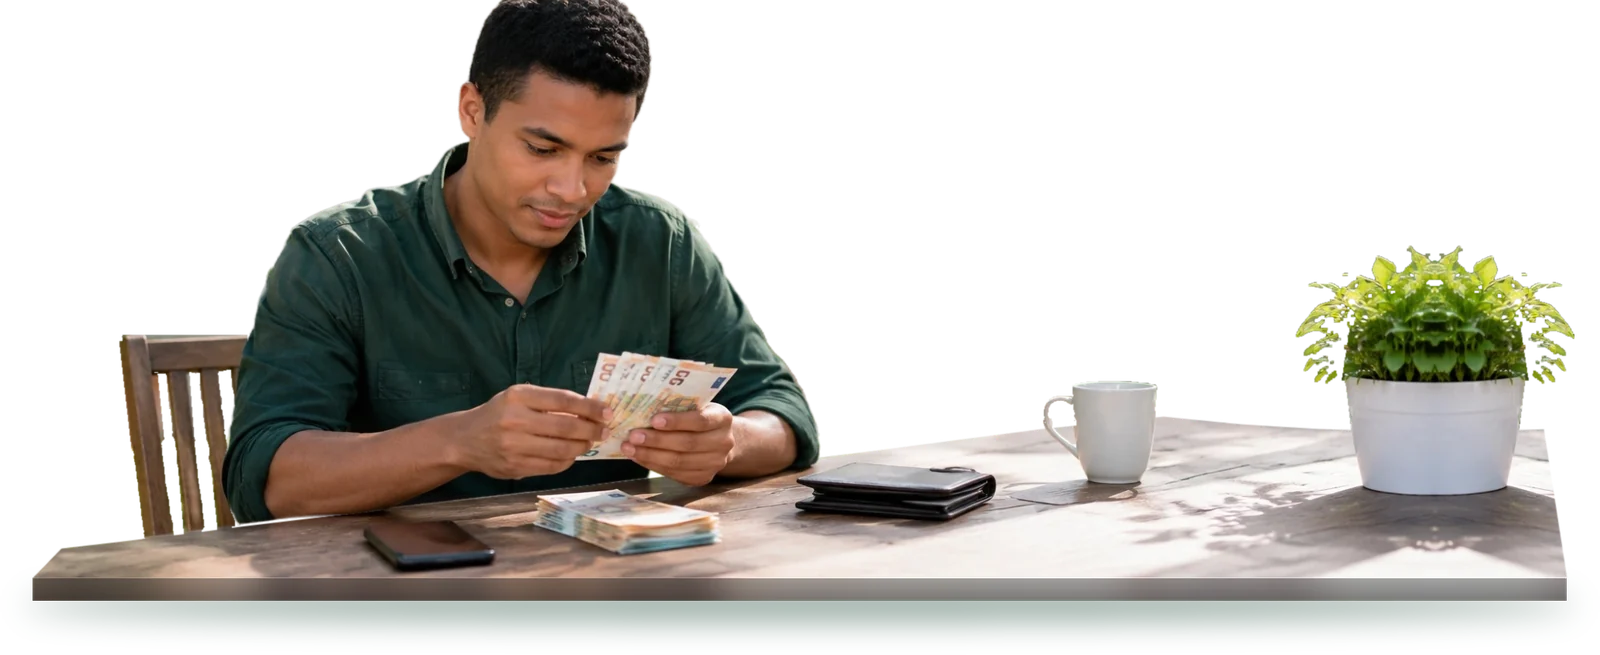
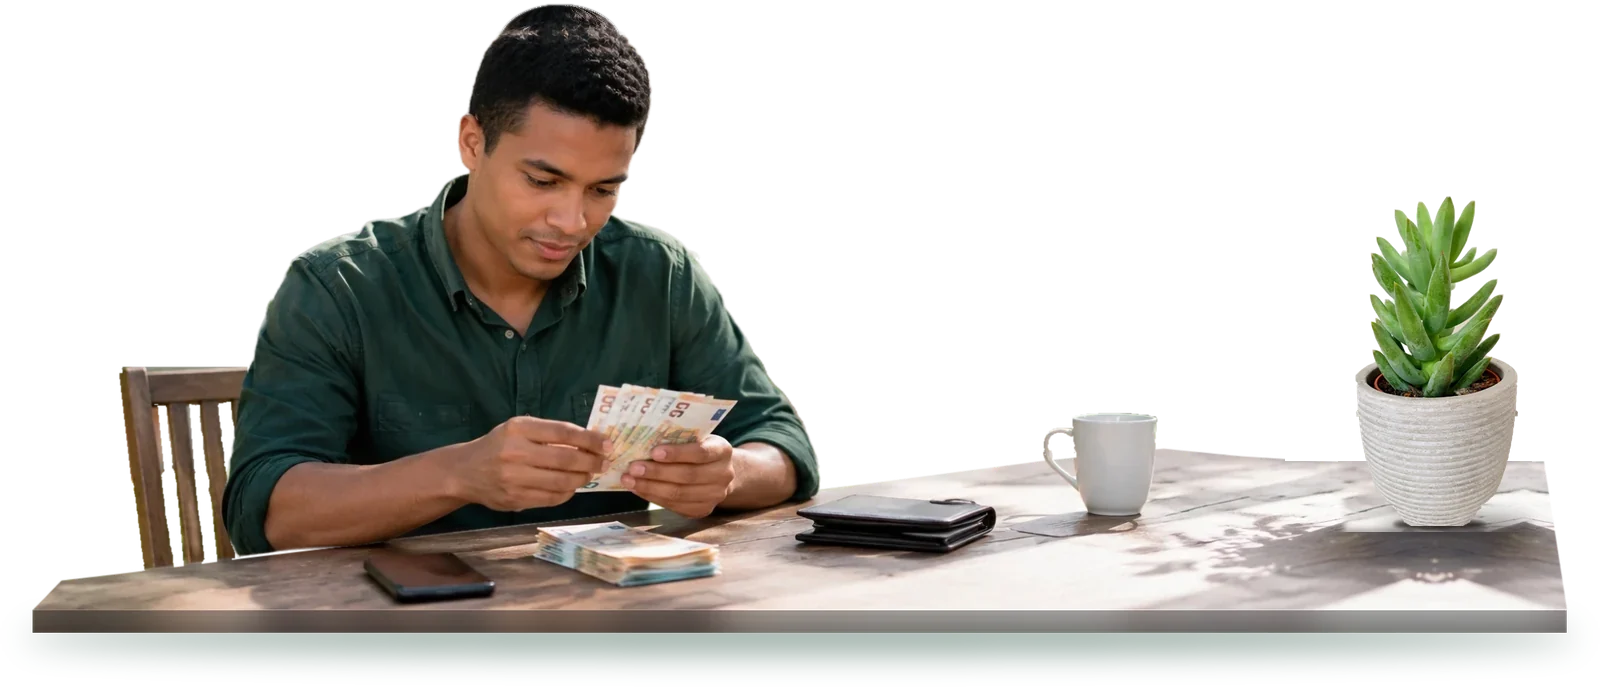
design(tableau de bord): section L'argent — tête complétée, nouvelle plante
L'illustration de l'homme à sa table avait deux défauts :
- le cadrage coupait net le haut du crâne, qui paraissait plat ;
- la plante était une image symétrisée, à l'aspect artificiel.

La toile est agrandie de 32 px vers le haut et le dôme du crâne est
complété avec la texture de ses propres cheveux. La plante est remplacée
par une plante grasse en pot gris strié (plantes/plante-12, détourée),
posée sur la table reconstituée, avec une ombre de contact.

Dimensions déclarées de la scène mises à jour : 1600 × 687.

Changed region(s): [[0.0, 0.0, 1.0, 0.9466]]

diff --git a/src/features/dashboard-v2/DashboardV2Page.tsx b/src/features/dashboard-v2/DashboardV2Page.tsx
@@ -98,9 +98,9 @@ const SCENES_ARGENT: Scene[] = [
   },
   {
     src: "/illustrations/argent.webp",
-    alt: "Un homme compte des billets en euros à sa table, à côté d'une plante en pot.",
+    alt: "Un homme compte des billets en euros à sa table, à côté d'une plante grasse en pot.",
     largeur: 1600,
-    hauteur: 655,
+    hauteur: 687,
   },
 ];
 const SCENE_STOCK: Scene = {
